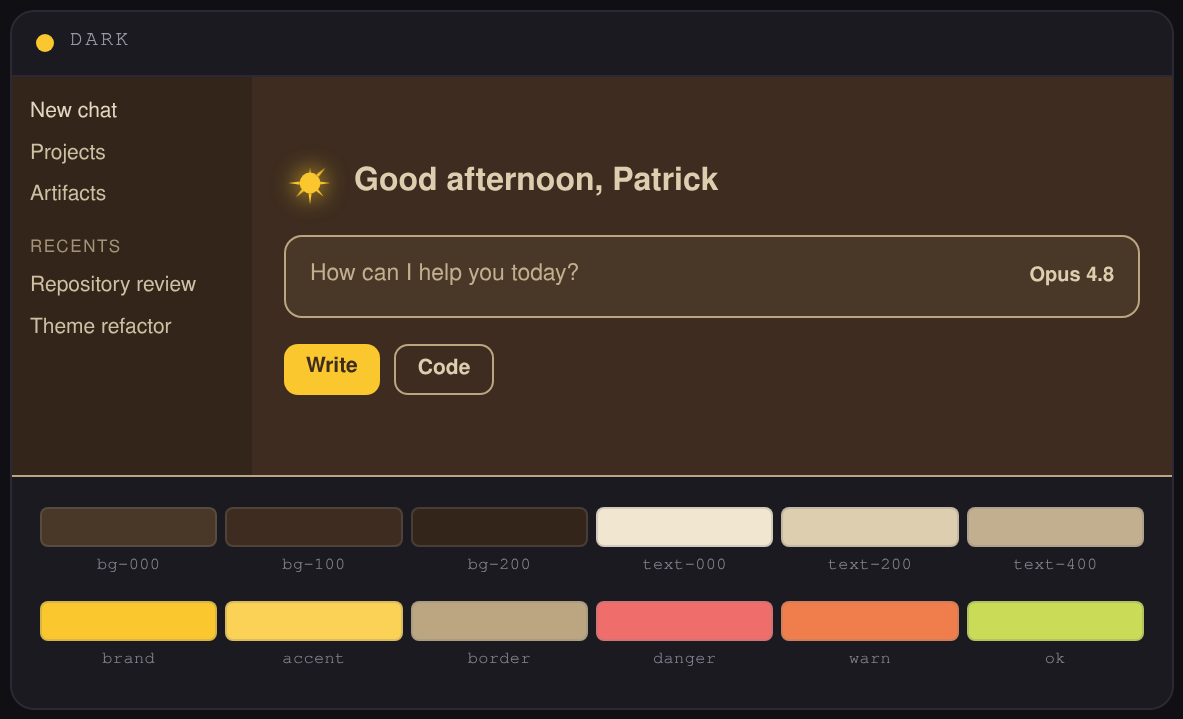
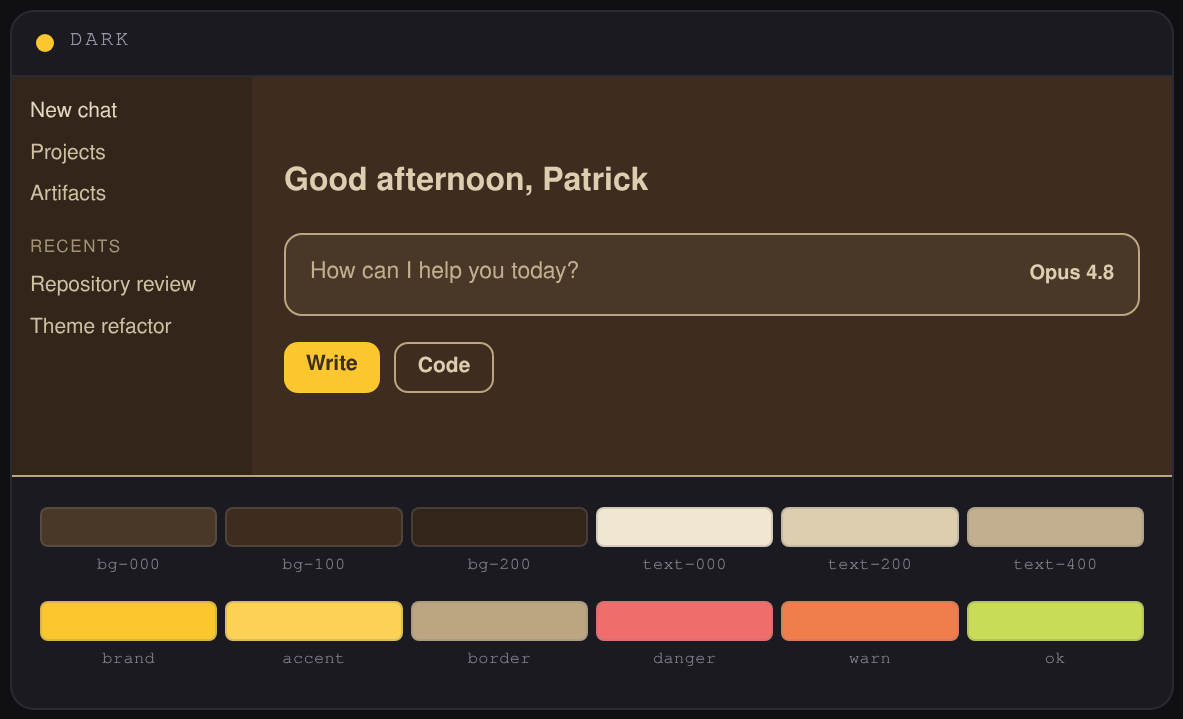
Drop chai's custom spinner entirely, keep colors only
Real-world testing surfaced that the injected spinner (whatever
animation type) wasn't animating in the user's actual running app --
static shape, correct color, no motion, on both the Chat and Code
tabs. Rather than debug the animation further, decided the simpler
outcome is better: chai keeps Claude's own stock star spinner,
recolored via the theme accent like every other CSS-driven surface,
with no shape or animation override at all.

Removed:
- chai's `spinner` field entirely (nim builtin entry + example config
  + the user's own live ~/.config/Claude/claude-desktop-bin.jsonc)
- The `flare` animation type from the shared patch code (cdbFlareGlow
  halo keyframes, cdb-anim-flare rule, cdbRayRetract + the 8-ray
  nth-child loop) -- dead code with zero remaining consumers now that
  chai no longer uses it. spin/bounce/pulse and the generic
  spinner.duration override (still unused, but simple/generic enough
  to keep per the existing pattern) are untouched and verified via a
  mocked run to still work exactly as before for nord/sweet/etc.
- The now-stale sun spinner close-up screenshots and combined preview
  card image from themes/chai/, and the spinner-specific doc sections
  in themes/README.md and baseline/SPINNER_SHAPES.md (reverted back
  to the original 7-shape / no-duration-caveat state).
- Regenerated the README's chai-light/chai-dark mockup screenshots
  without the sun icon in the greeting, matching what chai actually
[…]

diff --git a/themes/THEME_PREVIEW.html b/themes/THEME_PREVIEW.html
@@ -53,17 +53,6 @@
   @keyframes spin { to { transform:rotate(360deg); } }
   @keyframes bounce { 0%,100%{transform:translateY(0)} 50%{transform:translateY(-14%)} }
   @keyframes pulse { 0%,100%{opacity:1} 50%{opacity:.5} }
-  @keyframes flareGlow { 0%,100%{filter:drop-shadow(0 0 0 currentColor)} 50%{filter:drop-shadow(0 0 6px currentColor)} }
-  .sp-flare { animation:flareGlow 3s ease-in-out infinite; }
-  @keyframes rayRetract { 0%,100%{transform:scale(1)} 50%{transform:scale(.5)} }
-  .sp-flare path:nth-child(2){animation:rayRetract 3.6s ease-in-out infinite;animation-delay:-0.4s;transform-box:view-box;transform-origin:50px 50px}
-  .sp-flare path:nth-child(3){animation:rayRetract 4.4s ease-in-out infinite;animation-delay:-2.1s;transform-box:view-box;transform-origin:50px 50px}
-  .sp-flare path:nth-child(4){animation:rayRetract 3.9s ease-in-out infinite;animation-delay:-1.2s;transform-box:view-box;transform-origin:50px 50px}
-  .sp-flare path:nth-child(5){animation:rayRetract 4.8s ease-in-out infinite;animation-delay:-3.4s;transform-box:view-box;transform-origin:50px 50px}
-  .sp-flare path:nth-child(6){animation:rayRetract 3.3s ease-in-out infinite;animation-delay:-0.9s;transform-box:view-box;transform-origin:50px 50px}
-  .sp-flare path:nth-child(7){animation:rayRetract 4.2s ease-in-out infinite;animation-delay:-2.6s;transform-box:view-box;transform-origin:50px 50px}
-  .sp-flare path:nth-child(8){animation:rayRetract 3.7s ease-in-out infinite;animation-delay:-1.7s;transform-box:view-box;transform-origin:50px 50px}
-  .sp-flare path:nth-child(9){animation:rayRetract 4.6s ease-in-out infinite;animation-delay:-0.2s;transform-box:view-box;transform-origin:50px 50px}
   @media (prefers-reduced-motion:reduce) { .sp { animation:none !important; } }
   footer { margin-top:30px; padding-top:18px; border-top:1px solid var(--line);
     font-family:var(--mono); font-size:.7rem; color:#75727e; line-height:1.8; }
@@ -598,7 +587,7 @@
       </div>
       <div class="mock-main" style="background:hsl(43 48% 91%)">
         <div class="greet" style="color:hsl(26 32% 30%)">
-          <span class="gly" style="color:hsl(45 100% 28%)"><svg class="sp sp-flare" viewBox="0 0 100 100" width="26" height="26" style="fill:currentColor"><path d="M30 50 a 20 20 0 1 0 40 0 a 20 20 0 1 0 -40 0 Z"/><path d="M46.87 30.25 L50.00 8.00 L53.13 30.25 Z"/><path d="M61.76 33.82 L79.70 20.30 L66.18 38.24 Z"/><path d="M69.75 46.87 L92.00 50.00 L69.75 53.13 Z"/><path d="M66.18 61.76 L79.70 79.70 L61.76 66.18 Z"/><path d="M53.13 69.75 L50.00 92.00 L46.87 69.75 Z"/><path d="M38.24 66.18 L20.30 79.70 L33.82 61.76 Z"/><path d="M30.25 53.13 L8.00 50.00 L30.25 46.87 Z"/><path d="M33.82 38.24 L20.30 20.30 L38.24 33.82 Z"/></svg></span>
+          
           <span>Good afternoon, Patrick</span>
         </div>
         <div class="composer" style="background:hsl(45 55% 95%);border-color:hsl(28 30% 32%);color:hsl(27 22% 40%)">
@@ -630,7 +619,7 @@
       </div>
       <div class="mock-main" style="background:hsl(27 32% 18%)">
         <div class="greet" style="color:hsl(40 40% 78%)">
-          <span class="gly" style="color:hsl(45 95% 58%)"><svg class="sp sp-flare" viewBox="0 0 100 100" width="26" height="26" style="fill:currentColor"><path d="M30 50 a 20 20 0 1 0 40 0 a 20 20 0 1 0 -40 0 Z"/><path d="M46.87 30.25 L50.00 8.00 L53.13 30.25 Z"/><path d="M61.76 33.82 L79.70 20.30 L66.18 38.24 Z"/><path d="M69.75 46.87 L92.00 50.00 L69.75 53.13 Z"/><path d="M66.18 61.76 L79.70 79.70 L61.76 66.18 Z"/><path d="M53.13 69.75 L50.00 92.00 L46.87 69.75 Z"/><path d="M38.24 66.18 L20.30 79.70 L33.82 61.76 Z"/><path d="M30.25 53.13 L8.00 50.00 L30.25 46.87 Z"/><path d="M33.82 38.24 L20.30 20.30 L38.24 33.82 Z"/></svg></span>
+          
           <span>Good afternoon, Patrick</span>
         </div>
         <div class="composer" style="background:hsl(28 30% 22%);border-color:hsl(38 30% 62%);color:hsl(38 28% 66%)">

diff --git a/baseline/SPINNER_SHAPES.md b/baseline/SPINNER_SHAPES.md
@@ -28,8 +28,8 @@ its path data, its color strategy, and how to swap/test one live in the running 
 "spinner": {
   "viewBox": "0 0 100 100",          // optional, default "0 0 100 100"
   "match": "m19.6 66.5 19.7-11",     // optional override of the star path signature
-  "animation": "spin|bounce|pulse|flare|null",
-  "duration": "2s",                  // optional, overrides the stock per-type speed (see below) -- NOT read by `flare`
+  "animation": "spin|bounce|pulse|null",
+  "duration": "2s",                  // optional, overrides the stock per-type speed (see below)
   "paths": [ { "d": "...", "fill": "#hex" }, ... ]   // omit "fill" => currentColor
 }
 ```
@@ -40,30 +40,21 @@ to `--accent-brand`). An **explicit hex** pins a fixed color - needed only for t
 multi-color Mario mushroom. Every single-color shape below omits `fill` so it follows
 the theme's brand accent.
 
-**Animation:** adds a `cdb-anim-<spin|bounce|pulse|flare>` class to the replaced `<svg>`.
-The keyframes live in the theme CSS (`insertCSS` path), not the injector. `spin` rotates
+**Animation:** adds a `cdb-anim-<spin|bounce|pulse>` class to the replaced `<svg>`. The
+keyframes live in the theme CSS (`insertCSS` path), not the injector. `spin` rotates
 about the glyph center (`transform-box: fill-box`), `bounce` is a vertical hop, `pulse`
-is a flat opacity throb. `flare` is different in kind from the other three: it targets
-**individual paths**, not the whole `<svg>` - built for radiating multi-path shapes like
-`chai`'s sun. The **first** path (`:nth-child(1)`) is treated as a static center/disc and
-gets no animation; each of the next 8 paths (`:nth-child(2)` through `:nth-child(9)`) gets
-its own `cdbRayRetract` scale(1 -> .5 -> 1) animation on its **own** hardcoded
-duration+delay, so they drift in and out of phase instead of pulsing in unison - a shape
-with fewer than 9 paths just leaves the higher `:nth-child` selectors unmatched. Set
-`null` to inherit only claude.ai's own motion.
+is an opacity throb. Set `null` to inherit only claude.ai's own motion.
 
-**Duration:** `spin`/`bounce`/`pulse` each have a stock default (1s/.8s/1.2s). The
-optional `duration` field (e.g. `"2s"`, `"500ms"`) overrides whichever of those three
-types the theme uses - validated against `/^\d+(\.\d+)?m?s$/` in the patch, so a
-malformed value silently falls back to the stock default instead of breaking the
-generated CSS. Only affects the theme that sets it; every other theme keeps the stock
-speed for its type. **`flare` does not read `duration`** - its 8 ray timings are fixed
-in the patch (they are inherently 8 independent values, not one number); a future
-`rayDurations`-style field could make that themeable if ever needed by a second theme.
+**Duration:** each animation type has a stock default (`spin` 1s, `bounce` .8s, `pulse`
+1.2s). The optional `duration` field (e.g. `"2s"`, `"500ms"`) overrides whichever type
+the theme uses - validated against `/^\d+(\.\d+)?m?s$/` in the patch, so a malformed
+value silently falls back to the stock default instead of breaking the generated CSS.
+Only affects the theme that sets it; every other theme keeps the stock speed for its
+animation type.
 
 ---
 
-## The 8 shapes
+## The 7 shapes
 
 | Theme | Shape | Paths | Color | Animation |
 |-------|-------|-------|-------|-----------|
@@ -74,10 +65,10 @@ in the patch (they are inherently 8 independent values, not one number); a futur
 | `catppuccin-macchiato` | cat head | 1 | currentColor | `pulse` |
 | `catppuccin-frappe` | cat head | 1 | currentColor | `pulse` |
 | `catppuccin-latte` | coffee cup | 1 | currentColor | `pulse` |
-| `chai` | 8-ray sun | 1 | currentColor | `flare` |
 
 The three `catppuccin-*` dark variants intentionally **share** the cat-head shape; only
-`catppuccin-latte` (the light variant) gets the coffee cup.
+`catppuccin-latte` (the light variant) gets the coffee cup. `chai` intentionally has no
+shape at all - it keeps Claude's own stock star, just recolored via the theme accent.
 
 ---
 
@@ -168,33 +159,6 @@ the right wall, and two slim S-curve steam wisps rising above. Follows the theme
 
 ```
 M23 54 L65 54 L60 84 L28 84 Z M22 87 L66 87 L61 91 L27 91 Z M65 57 A 13 13 0 1 1 65 81 L65 75 A 7 7 0 1 0 65 63 Z M40 50 C45 44 35 40 42 34 C45 28 37 24 40 18 L36 18 C33 24 41 28 38 34 C31 40 41 44 36 50 Z M52 50 C57 44 47 40 54 34 C57 28 49 24 52 18 L48 18 C45 24 53 28 50 34 C43 40 53 44 48 50 Z
-```
-
----
-
-### 8. `chai` - 8-ray sun (9 paths: 1 static disc + 8 independently-animated rays, `flare`)
-
-A center disc with 8 tapered triangular rays radiating at 45deg spacing - a plain sun
-glyph. Follows the theme accent (deep spiced-gold in the "chai-light" variant, brighter
-gold in "chai-dark"). Unlike every other shape here, this one is **9 separate paths**,
-not 1 - the `flare` animation type (see Spec format above) needs each ray as its own
-`<path>` so it can retract independently.
-
-- Construction: center disc radius 20; each ray is a 3-point triangle with its two base
-  corners on the disc's edge (radius 20, +-9deg either side of the ray's spoke angle) and
-  its tip at radius 42 - so the base sits flush against the disc with no seam gap. The
-  original single-path version (all 9 subpaths unioned into one `d`, nonzero fill-rule)
-  is kept below for reference/copy-paste convenience; the shipped spec splits it into 9
-  `paths` entries so `flare` can target them individually.
-- Color: `currentColor` (no `fill`), inherited per-path from the `<svg>`'s own fill.
-- Animation: `flare` - the disc (path 1) stays static; each ray (paths 2-9) retracts
-  toward the center and back out (`scale(1) -> scale(.5) -> scale(1)`) on its own
-  duration (3.3s-4.8s) and negative delay, so the 8 rays drift in and out of phase
-  instead of pulsing in unison - reads as flares flickering, not a spinning pinwheel and
-  not a single uniform pulse.
-
-```
-M30 50 a 20 20 0 1 0 40 0 a 20 20 0 1 0 -40 0 Z M46.87 30.25 L50.00 8.00 L53.13 30.25 Z M61.76 33.82 L79.70 20.30 L66.18 38.24 Z M69.75 46.87 L92.00 50.00 L69.75 53.13 Z M66.18 61.76 L79.70 79.70 L61.76 66.18 Z M53.13 69.75 L50.00 92.00 L46.87 69.75 Z M38.24 66.18 L20.30 79.70 L33.82 61.76 Z M30.25 53.13 L8.00 50.00 L30.25 46.87 Z M33.82 38.24 L20.30 20.30 L38.24 33.82 Z
 ```
 
 ---

diff --git a/themes/README.md b/themes/README.md
@@ -111,7 +111,7 @@ dual-variant and live inside the patch:
 | `catppuccin-frappe` | Catppuccin **Latte** (light) | Catppuccin **Frappe** (dark) - mauve accent | cat head (`pulse`) |
 | `catppuccin-latte` | Catppuccin **Latte** (light) | Catppuccin **Mocha** (dark) | coffee cup (`pulse`) |
 | `mario` | sky-blue overworld: pale-blue surfaces, dark-navy text, Mario-red accent | warm-brick underground: brown surfaces, cream text, Mario-red accent + coin-gold/pipe-green status | mushroom (`bounce`) |
-| `chai` | "chai-light": warm cream/beige surfaces, deep spiced-gold accent | "chai-dark": deep spiced-brown surfaces, brighter gold accent | sun (`flare`) |
+| `chai` | "chai-light": warm cream/beige surfaces, deep spiced-gold accent | "chai-dark": deep spiced-brown surfaces, brighter gold accent | none (stock star) |
 
 Notes:
 
@@ -133,7 +133,7 @@ claude.ai's brand-star glyph (matched by its path signature) and swaps in your p
 keeping the `<svg>` wrapper so the accent color and box size are preserved. Animation
 keyframes ship alongside the theme CSS.
 
-The eight shapes that ship with the built-ins:
+The seven shapes that ship with the built-ins:
 
 | Theme | Shape | Color | Animation |
 |-------|-------|-------|-----------|
@@ -144,7 +144,9 @@ The eight shapes that ship with the built-ins:
 | `catppuccin-macchiato` | cat head | accent (`currentColor`) | `pulse` |
 | `catppuccin-frappe` | cat head | accent (`currentColor`) | `pulse` |
 | `catppuccin-latte` | coffee cup | accent (`currentColor`) | `pulse` |
-| `chai` | 8-ray sun | accent (`currentColor`) | `flare` |
+
+`chai` intentionally has **no** `spinner` field - it keeps Claude's own stock star,
+just recolored via the theme accent like everything else.
 
 Shape format (in your theme object):
 
@@ -152,18 +154,10 @@ Shape format (in your theme object):
 "spinner": {
   "viewBox": "0 0 100 100",          // optional, default "0 0 100 100"
   "match": "m19.6 66.5 19.7-11",     // optional override of the star path signature
-  "animation": "spin|bounce|pulse|flare|null",
-  "duration": "2s",                  // optional, overrides the stock per-type speed -- NOT read by flare
+  "animation": "spin|bounce|pulse|null",
   "paths": [ { "d": "...", "fill": "#hex" }, ... ]   // omit "fill" => currentColor (follows accent)
 }
 ```
-
-`flare` is different from the other three: it animates **individual paths**, not the
-whole glyph - the first path is a static center, and paths 2-9 (up to 8) each retract
-toward the center and back out on their own fixed duration+delay, so a multi-ray shape
-(like `chai`'s sun) flickers instead of pulsing in unison. See
-[baseline/SPINNER_SHAPES.md](../baseline/SPINNER_SHAPES.md#spec-format-per-theme) for
-the full mechanics.
 
 See [baseline/SPINNER_SHAPES.md](../baseline/SPINNER_SHAPES.md) for the full spec,
 the literal path data for each shape, and a DevTools-console recipe for swapping a

diff --git a/README.md b/README.md
@@ -237,15 +237,15 @@ The Mario theme ships a **light "overworld"** and a **dark "underground"** varia
 |-------------------|--------------------|
 | ![Mario theme - light](themes/mario/2026-06-26_14-46-chat-light.png) | ![Mario theme - dark](themes/mario/2026-06-26_14-46-chat-dark.png) |
 
-The `chai` theme (warm cream/beige "chai-light", deep spiced-brown "chai-dark") has an 8-ray sun spinner - each ray retracts and extends independently on its own timing, with a soft halo pulsing around the whole glyph:
+The `chai` theme ships a warm cream/beige **"chai-light"** and a deep spiced-brown **"chai-dark"** variant - it keeps Claude's own stock loading spinner, just recolored to match:
 
 | chai-light | chai-dark |
 |------------|-----------|
 | ![chai theme - light](themes/chai/2026-07-18_mockup-light.png) | ![chai theme - dark](themes/chai/2026-07-18_mockup-dark.png) |
 
-> These two are a rendered mockup driven by the actual theme CSS/JSON ([themes/THEME_PREVIEW.html](themes/THEME_PREVIEW.html)), not a live app capture like Mario's screenshots above - the colors, layout, and spinner shape are pixel-accurate to what you'll see, but it's not a `claude-desktop` window. A real capture is a welcome follow-up contribution.
+> These two are a rendered mockup driven by the actual theme CSS/JSON ([themes/THEME_PREVIEW.html](themes/THEME_PREVIEW.html)), not a live app capture like Mario's screenshots above - the colors and layout are pixel-accurate to what you'll see, but it's not a `claude-desktop` window. A real capture is a welcome follow-up contribution.
 
-**Built-in themes** (each with a light + dark palette and a custom spinner):
+**Built-in themes** (each with a light + dark palette; most also ship a custom spinner):
 
 | Theme | Light variant | Dark variant | Spinner |
 |-------|---------------|--------------|---------|
@@ -256,7 +256,7 @@ The `chai` theme (warm cream/beige "chai-light", deep spiced-brown "chai-dark") 
 | `catppuccin-macchiato` | Latte | Macchiato | cat |
 | `catppuccin-frappe` | Latte | Frappe | cat |
 | `catppuccin-latte` | Latte | Mocha | coffee cup |
-| `chai` | chai-light: warm cream/beige, spiced-gold accent | chai-dark: deep spiced-brown, brighter gold accent | sun |
+| `chai` | chai-light: warm cream/beige, spiced-gold accent | chai-dark: deep spiced-brown, brighter gold accent | none (stock star) |
 
 Each theme can also inject raw `customCss` and replace the loading glyph with a custom SVG. See **[themes/README.md](themes/README.md)** for the schema, CSS-variable reference, contrast tips, and how to author your own.
 
